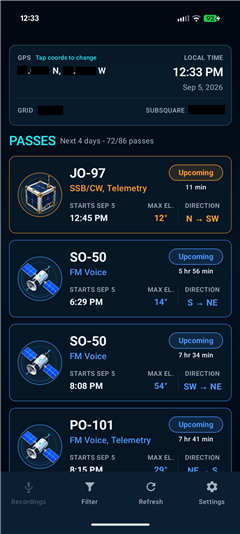
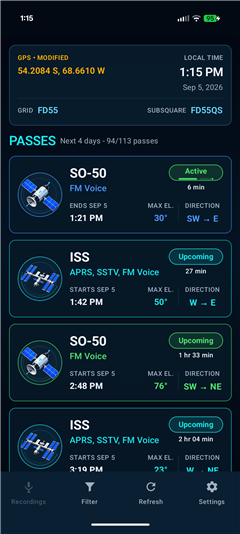
Refresh screenshots and README gallery

diff --git a/README.md b/README.md
@@ -20,21 +20,13 @@ SatQSO is an Android pass planner for amateur-radio satellites. It calculates pa
 
 ## Screenshots
 
-### Upcoming passes
-
 <table>
   <tr>
-    <td><a href="docs/screenshots/home.png"><img src="docs/screenshots/home-thumb.png" alt="Upcoming pass list"></a></td>
+    <td align="center"><a href="docs/screenshots/home.png"><img src="docs/screenshots/home-thumb.png" alt="Upcoming pass list"></a><br>Upcoming passes</td>
+    <td align="center"><a href="docs/screenshots/filters.png"><img src="docs/screenshots/filters-thumb.png" alt="Pass filters"></a><br>Filters</td>
+    <td align="center"><a href="docs/screenshots/gps.png"><img src="docs/screenshots/gps-thumb.png" alt="GPS location picker"></a><br>GPS location picker</td>
   </tr>
 </table>
-
-### Filters
-
-[![Pass filters](docs/screenshots/filters-thumb.png)](docs/screenshots/filters.png)
-
-### GPS location picker
-
-[![GPS location picker](docs/screenshots/gps-thumb.png)](docs/screenshots/gps.png)
 
 ### Pass details
 
